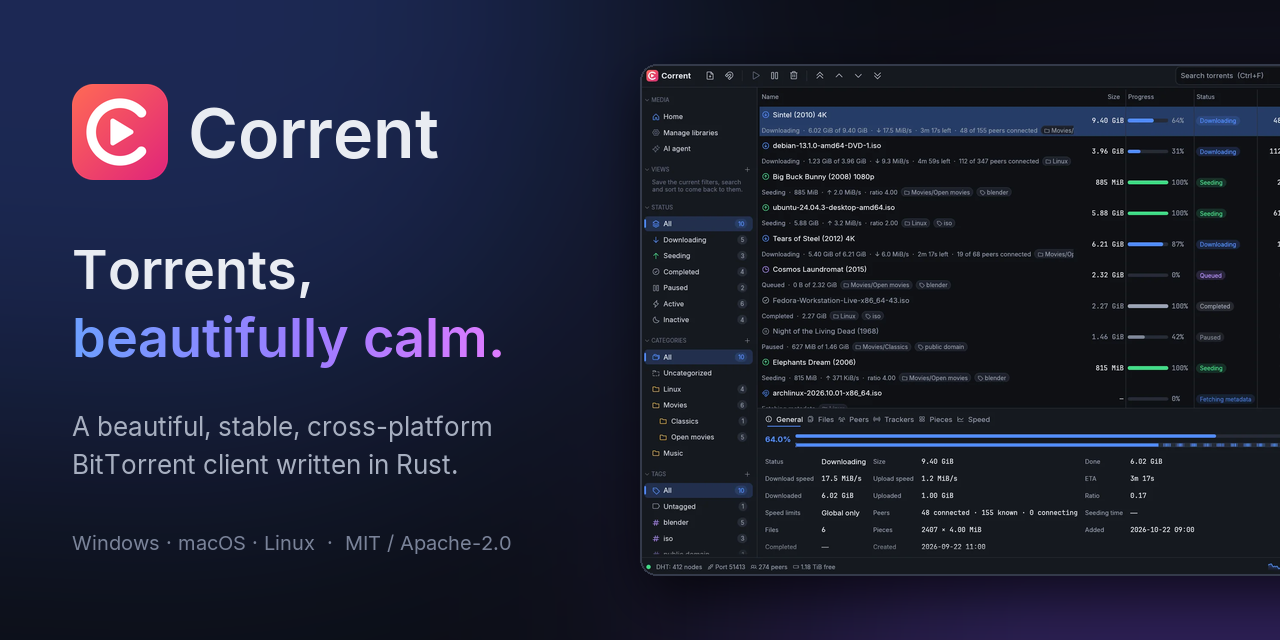
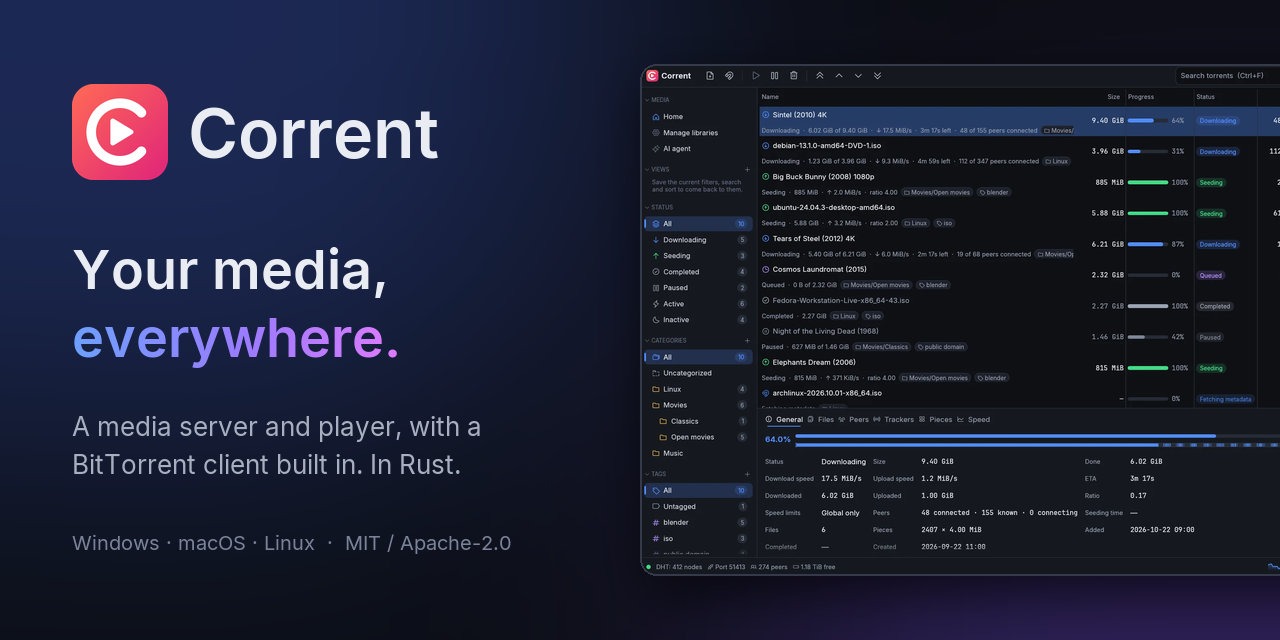
README: lead with the media server and clients; the torrent client follows
The social preview says the same: "Your media, everywhere."

diff --git a/README.md b/README.md
@@ -4,17 +4,69 @@
 [![CodeQL](https://github.com/ulaas/corrent/actions/workflows/codeql.yml/badge.svg)](https://github.com/ulaas/corrent/actions/workflows/codeql.yml)
 [![License: MIT or Apache-2.0](https://img.shields.io/badge/license-MIT%20or%20Apache--2.0-blue)](#license)
 
-A beautiful, stable, cross-platform BitTorrent client written in Rust with an
-[egui](https://github.com/emilk/egui) interface and the [librqbit](https://github.com/ikatson/rqbit) engine.
+**Your own media server and player, with a BitTorrent client built in.**
+
+Corrent organizes your movies, shows, music and photos into libraries and plays them anywhere: in a
+native desktop app with an embedded mpv player, in the browser, on a TV or on a Chromecast. Unlike
+other media servers, the torrent engine is part of it: downloads land in your libraries, you can
+watch while they download, and Sonarr and Radarr can use it as their download client.
+Written in Rust, with an [egui](https://github.com/emilk/egui) desktop app, a Svelte web client,
+[libmpv](https://mpv.io/) for playback and transcoding, and the [librqbit](https://github.com/ikatson/rqbit) engine.
+
 Website: **[ulaas.github.io/corrent](https://ulaas.github.io/corrent/)** · Downloads:
-[Releases](https://github.com/ulaas/corrent/releases) · Changes: [CHANGELOG.md](CHANGELOG.md)
+[Releases](https://github.com/ulaas/corrent/releases) · Server guide: [docs/SERVER.md](docs/SERVER.md) ·
+Changes: [CHANGELOG.md](CHANGELOG.md)
+
+## One app, or a server and clients
+
+| | |
+|---|---|
+| **`corrent`**, the desktop app | Runs everything on its own for one person: libraries, the player and the torrent engine. It can also pair with a server and act as its client. Windows, Linux, macOS. |
+| **`correntd`**, the server | Headless and multi-user, for a home server or NAS: libraries, transcoding, the torrent engine, the API and the web client over HTTPS. Runs as a systemd, launchd or Windows service, or in [Docker](packaging/server/docker). |
+| **Web client** | Served by the server itself: an installable web app for desktop, phone and TV browsers, with its own player. |
+| **TV mode** | `corrent --tv`: a full-screen, 10-foot interface driven by arrow keys, a remote or a gamepad. |
+
+## Media
+
+**Libraries**
+- Movies, shows, music and photos, scanned and watched for changes, with metadata and artwork from
+  plugins (TMDB, MusicBrainz and the Cover Art Archive built in) and manual Identify
+- Frame thumbnails, trickplay previews on the seek bar, cast and crew pages, collections, playlists and search
+- Continue watching, Next up and watch state for every user
+
+**Playback**
+- Direct play when the device can, direct stream (MKV with H.264/HEVC is repackaged without
+  re-encoding) and transcoding through libmpv with NVENC and Quick Sync detection
+- Subtitles from the library, the web or a file you choose; audio tracks, chapters, resume,
+  picture in picture
+- Sound processing: a 10-band equalizer, Night mode, Clearer dialogue, headphone crossfeed and a
+  loudness leveller, with loudness meters and A/V stats over the picture
+- Casting to Chromecasts with device volume, tracks and queueing; Watch together; DLNA
+
+**Torrents feed the library**
+- Finished downloads are imported into a library (in place, hard link or copy), with seeding goals
+  and a guard against deleting what a library still uses
+- A wanted list with quality profiles, "Follow new episodes" for shows, and releases you can grab
+  from an item's page
+- Play while downloading, both in the desktop player and through the server
+- A qBittorrent-compatible API, so Sonarr, Radarr and similar tools can use Corrent as their download client
+
+**Server**
+- Multiple users with permissions, devices paired by a short code, an audit log
+- HTTPS with the server's own certificate authority (pinned by the clients) or Let's Encrypt
+- Found on the local network automatically; reachable from outside without port forwarding through
+  Corrent Connect (peer-to-peer over [iroh](https://github.com/n0-computer/iroh)), or with UPnP/NAT-PMP port mapping
+- Scheduled tasks, notifications (ntfy, Discord, webhooks), backups, Prometheus metrics, sandboxed
+  WebAssembly plugins, and an MCP bridge for AI agents
+
+## Torrent client
+
+The torrent side is a complete client of its own, also usable without any libraries.
 
 <p align="center">
   <img src="site/img/list.webp" width="900"
-       alt="Corrent's main window: the torrent list with status filters and categories in the sidebar">
+       alt="Corrent's torrent list with status filters and categories in the sidebar">
 </p>
-
-## Features
 
 **Adding torrents**
 - `.torrent` files, magnet links, info hashes and `http(s)` links to `.torrent` files
@@ -56,7 +108,13 @@ Website: **[ulaas.github.io/corrent](https://ulaas.github.io/corrent/)** · Down
 - IP filter: blocklist and allowlist (URL or file, plain or gzip) plus your own addresses
 - Falls back to a random port if the configured one is unavailable
 
-**Desktop**
+**Remote control** (off by default)
+- qBittorrent-compatible Web API, so Sonarr, Radarr and similar tools can use Corrent as their
+  download client; a small web interface at the same address
+- Local-only unless you allow other devices; password required (stored as a PBKDF2 hash)
+
+## Desktop app
+
 - Custom title bar in the app's own style (native window buttons on macOS)
 - Dark and light themes (or follow the system), six accent colors plus a custom color,
   interface scaling, speed units, animations
@@ -68,12 +126,8 @@ Website: **[ulaas.github.io/corrent](https://ulaas.github.io/corrent/)** · Down
 - Screen-reader support (AccessKit), keyboard focus rings, labelled icon buttons
 - English and Turkish (follows the system language or pick one in Settings → Appearance)
 
-**Remote control** (off by default)
-- qBittorrent-compatible Web API, so Sonarr, Radarr and similar tools can use Corrent as their
-  download client; a small web interface at the same address
-- Local-only unless you allow other devices; password required (stored as a PBKDF2 hash)
+## Stability
 
-**Stability**
 - The engine runs on its own async runtime; the UI only reads immutable snapshots, so it never
   blocks on disk or network I/O
 - Fast resume is on by default: restarting never re-downloads and normally skips re-verification
@@ -84,7 +138,7 @@ Website: **[ulaas.github.io/corrent](https://ulaas.github.io/corrent/)** · Down
 - Damaged settings/data files are recovered from backups; backup and restore of all app data
 - Opt-in update check (GitHub releases; nothing is installed automatically)
 
-## Keyboard shortcuts
+## Keyboard shortcuts (torrent list)
 
 | Shortcut | Action |
 |---|---|
